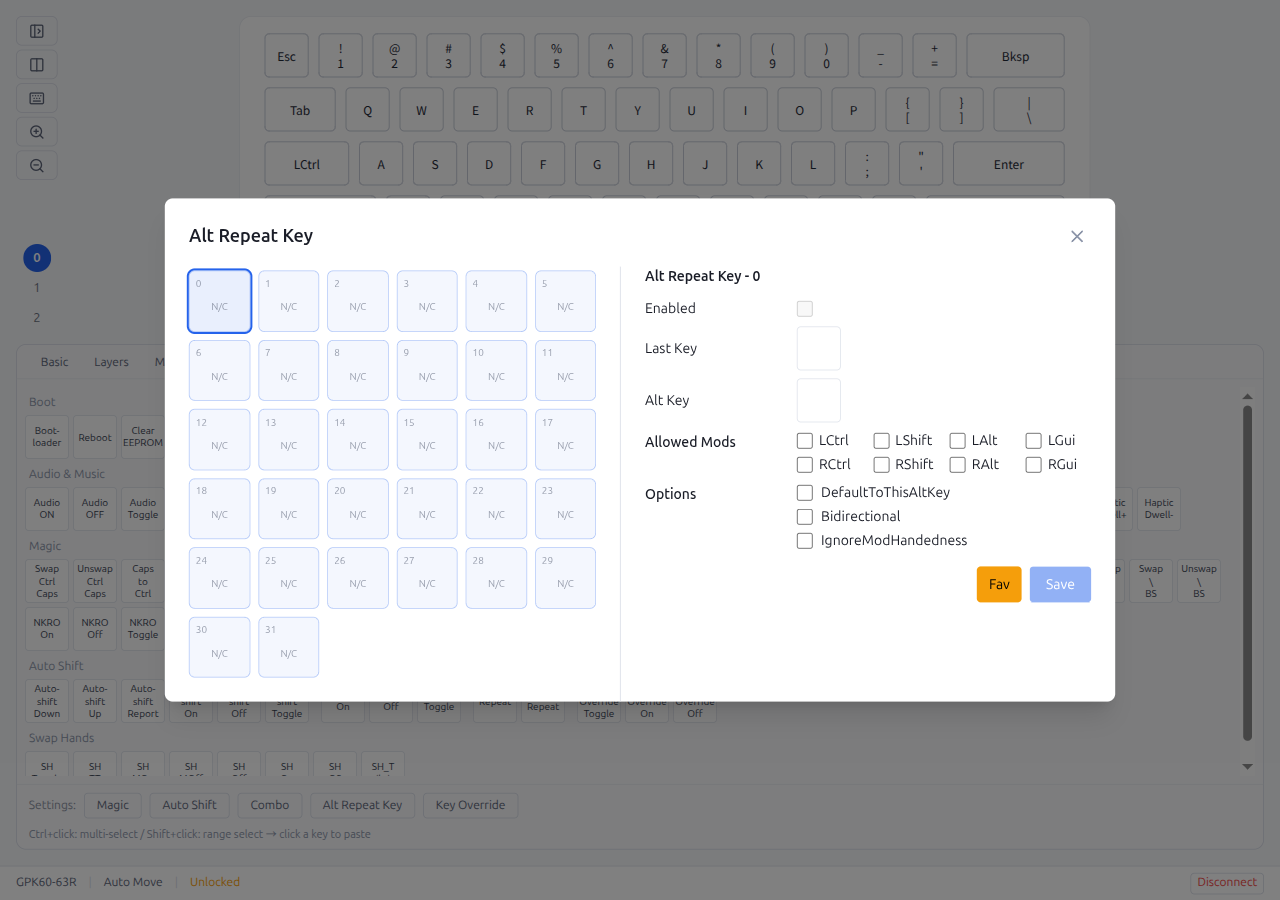
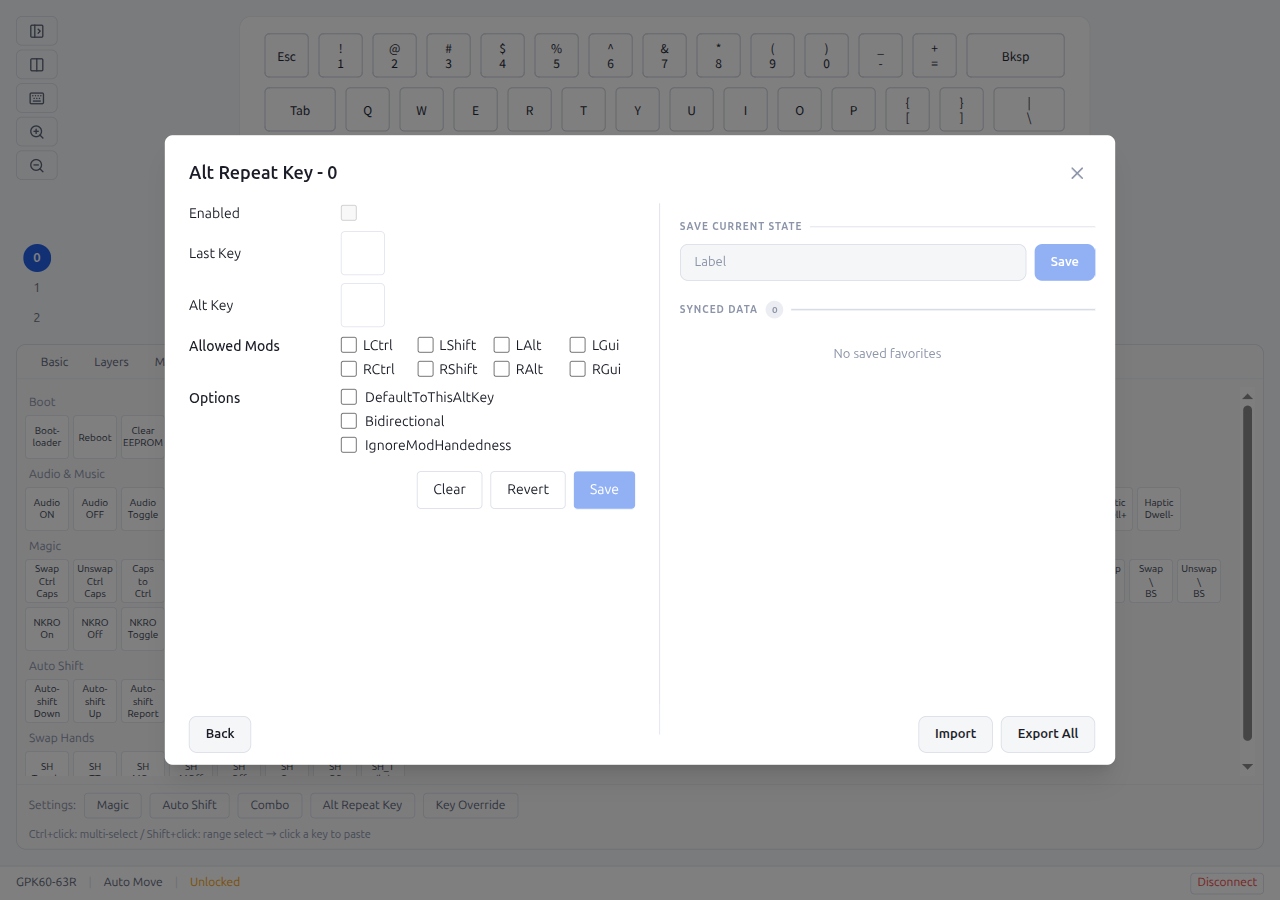
docs: update README, operation guides, and screenshots for v0.2.0 changes
Reflect UI changes since v0.2.0: 2-screen flow for Combo/Key Override/
Alt Repeat Key editors, inline favorites panel replacing Fav button/modal,
slide-out layout options, Mod Mask/Mod-Tap wrapper modes. Re-capture all
31 screenshots and update doc-capture e2e helper with unlock dialog
handling and inline favorites flow.

diff --git a/e2e/helpers/doc-capture.ts b/e2e/helpers/doc-capture.ts
@@ -56,6 +56,22 @@ async function dismissNotificationModal(page: Page): Promise<void> {
   }
 }
 
+async function waitForUnlockDialog(page: Page): Promise<void> {
+  // The unlock dialog has no close button — it requires physical key presses.
+  // Wait up to 60 seconds for the dialog to disappear (user unlocks).
+  const unlockHeading = page.locator('h2', { hasText: /Unlock|unlock|アンロック/ })
+  if (!(await isAvailable(unlockHeading))) return
+
+  console.log('  Unlock dialog detected — waiting for physical unlock (up to 60s)...')
+  try {
+    await unlockHeading.waitFor({ state: 'detached', timeout: 60_000 })
+    console.log('  Keyboard unlocked!')
+    await page.waitForTimeout(500)
+  } catch {
+    console.log('  [warn] Unlock timed out')
+  }
+}
+
 async function connectDevice(page: Page): Promise<boolean> {
   const deviceList = page.locator('[data-testid="device-list"]')
   const noDeviceMsg = page.locator('[data-testid="no-device-message"]')
@@ -233,10 +249,16 @@ async function captureSidebarTools(page: Page): Promise<void> {
   const typingTestBtn = page.locator('[data-testid="typing-test-button"]')
   if (await isAvailable(typingTestBtn)) {
     await typingTestBtn.click()
+    await waitForUnlockDialog(page)
     await page.waitForTimeout(1000)
     await capture(page, 'typing-test', { fullPage: true })
     await dismissNotificationModal(page)
-    await typingTestBtn.click()
+    await page.keyboard.press('Escape')
+    await page.waitForTimeout(500)
+    await dismissNotificationModal(page)
+    await typingTestBtn.click({ timeout: 5000 }).catch(() => {
+      console.log('  [warn] Could not toggle typing test off')
+    })
     await page.waitForTimeout(500)
   } else {
     console.log('  [skip] typing-test-button not found')
@@ -387,10 +409,10 @@ async function captureStatusBar(page: Page): Promise<void> {
   }
 }
 
-// --- Phase 9: Favorites ---
+// --- Phase 9: Inline Favorites ---
 
 async function captureFavorites(page: Page): Promise<void> {
-  console.log('\n--- Phase 9: Favorites ---')
+  console.log('\n--- Phase 9: Inline Favorites ---')
 
   const editorContent = page.locator('[data-testid="editor-content"]')
   const tdTabLabel = 'Tap-Hold / Tap Dance'
@@ -419,32 +441,9 @@ async function captureFavorites(page: Page): Promise<void> {
     return
   }
 
-  await capture(page, 'fav-button', { fullPage: true })
+  // TapDance modal now shows editor on the left and inline favorites panel on the right
+  await capture(page, 'inline-favorites', { fullPage: true })
 
-  const favBtn = page.locator('[data-testid="td-fav-btn"]')
-  if (!(await isAvailable(favBtn))) {
-    console.log('  [skip] Fav button not found')
-    await page.locator('[data-testid="td-modal-close"]').click()
-    await page.waitForTimeout(300)
-    return
-  }
-  await favBtn.click()
-  await page.waitForTimeout(500)
-
-  const favBackdrop = page.locator('[data-testid="favorite-store-modal-backdrop"]')
-  try {
-    await favBackdrop.waitFor({ state: 'visible', timeout: 3000 })
-  } catch {
-    console.log('  [skip] Favorite modal did not open')
-    await page.locator('[data-testid="td-modal-close"]').click()
-    await page.waitForTimeout(300)
-    return
-  }
-
-  await capture(page, 'fav-modal', { fullPage: true })
-
-  await page.locator('[data-testid="favorite-store-modal-close"]').click()
-  await page.waitForTimeout(300)
   await page.locator('[data-testid="td-modal-close"]').click()
   await page.waitForTimeout(300)
 }

diff --git a/docs/OPERATION-GUIDE.md b/docs/OPERATION-GUIDE.md
@@ -239,57 +239,82 @@ Open from the Lighting tab settings button. Configure RGB lighting colors and ef
 
 ### 5.2 Combo
 
-Open from the Quantum tab combo settings button. Configure simultaneous key press combinations to trigger different keys.
+Open from the Quantum tab combo settings button. Configure simultaneous key press combinations to trigger different keys. The combo editor uses a **2-screen flow**: a tile grid overview followed by a detail editor.
+
+**Screen 1 — Tile Grid Overview**
 
 ![Combo List](screenshots/21-combo-modal.png)
 
+Shows a grid of numbered tiles (0--31). Configured entries display a summary (e.g., "A + B -> C"). Click a tile to open the detail editor. Timeout (ms) and Save button are shown on this screen.
+
+**Screen 2 — Detail Editor**
+
 ![Combo Detail](screenshots/22-combo-detail.png)
 
-- Select combo entries from the grid tiles
-- Configure trigger key combinations and output keys
-- Adjust timeout values
+- Left panel: Combo editor with Key 1--4 and Output fields
+- Right panel: Inline favorites panel (Save Current State / Synced Data / Import / Export All)
+- **Clear** resets all fields; **Revert** restores the last saved state. Both use two-step confirmation.
+- **Save** writes changes to the keyboard
+- **Back** returns to the tile grid overview
 
 ### 5.3 Key Override
 
-Open from the Quantum tab key override settings button. Replace specific key inputs with different keys.
+Open from the Quantum tab key override settings button. Replace specific key inputs with different keys. The key override editor uses the same **2-screen flow** as Combo.
+
+**Screen 1 — Tile Grid Overview**
 
 ![Key Override List](screenshots/23-key-override-modal.png)
 
+Shows a grid of numbered tiles. Configured entries display a summary. Click a tile to open the detail editor.
+
+**Screen 2 — Detail Editor**
+
 ![Key Override Detail](screenshots/24-key-override-detail.png)
 
-- Configure trigger and replacement keys
-- Specify layer and modifier conditions
-- Enable/disable individual entries
+- Left panel: Trigger Key, Replacement Key, enabled toggle, layer and modifier options
+- Right panel: Inline favorites panel (Save Current State / Synced Data / Import / Export All)
+- **Clear** resets all fields; **Revert** restores the last saved state. Both use two-step confirmation.
+- **Save** writes changes to the keyboard
+- **Back** returns to the tile grid overview
 
 ### 5.4 Alt Repeat Key
 
-Open from the Quantum tab Alt Repeat Key settings button. Configure alternative actions for the Repeat Key.
+Open from the Quantum tab Alt Repeat Key settings button. Configure alternative actions for the Repeat Key. The Alt Repeat Key editor uses the same **2-screen flow** as Combo.
+
+**Screen 1 — Tile Grid Overview**
 
 ![Alt Repeat Key List](screenshots/25-alt-repeat-key-modal.png)
 
+Shows a grid of numbered tiles. Configured entries display a summary. Click a tile to open the detail editor.
+
+**Screen 2 — Detail Editor**
+
 ![Alt Repeat Key Detail](screenshots/26-alt-repeat-key-detail.png)
 
-- Set alternative keys based on the last key pressed
-- Specify allowed modifiers
-- Enable/disable individual entries
+- Left panel: Trigger Key, Replacement Key, enabled toggle, modifier options
+- Right panel: Inline favorites panel (Save Current State / Synced Data / Import / Export All)
+- **Clear** resets all fields; **Revert** restores the last saved state. Both use two-step confirmation.
+- **Save** writes changes to the keyboard
+- **Back** returns to the tile grid overview
 
 ### 5.5 Favorites
 
-Each editor modal (Tap Dance, Macro, Combo, Key Override, Alt Repeat Key) includes a **Fav** button for saving and loading individual entry configurations.
+Each editor modal (Tap Dance, Macro, Combo, Key Override, Alt Repeat Key) includes an inline **Favorites panel** on the right side of the editor.
 
-![Fav Button](screenshots/31-fav-button.png)
+![Inline Favorites Panel](screenshots/31-inline-favorites.png)
 
-- Click the **Fav** button (yellow) to open the Favorites modal
+The inline favorites panel provides:
+
 - **Save Current State**: Enter a label and click Save to store the current entry configuration
-- **Synced Data**: Previously saved entries are listed with Load, Rename, Delete, and **Export** actions
+- **Synced Data**: Previously saved entries are listed with Load, Rename, Delete, and Export actions
+- **Import** / **Export All**: Footer buttons for bulk import/export of favorites
 
-![Favorites Modal](screenshots/32-fav-modal.png)
+Within the Synced Data list:
 
 - **Load**: Apply a saved configuration to the current entry
 - **Rename**: Change the label of a saved entry
 - **Delete**: Remove a saved entry
 - **Export**: Download an individual saved entry as a file
-- **Import** / **Export All**: Use the footer buttons to import entries from a file or export all entries at once
 
 > **Note**: Favorites are not tied to a specific keyboard — saved entries can be loaded on any compatible keyboard. When Cloud Sync is enabled, favorites are also synced across devices (see §6.4). Favorites can also be managed from the Data modal on the device selection screen (see §1.3).
 

diff --git a/README.md b/README.md
@@ -59,13 +59,13 @@ For complete instructions with screenshots:
 
 ### Keyboard Configuration
 
-- **Keymap Editor** — Layer-based key assignment with drag & drop, auto-advance, and a searchable keycode palette
-- **Layout Editor** — Physical layout switching (split backspace, bottom row variants, etc.)
-- **Tap Dance** — Multi-tap key behaviors (tap, hold, double-tap, tap+hold, custom tapping term)
-- **Combo** — Simultaneous key-press to trigger output keys
-- **Key Override** — Replace key output when specific modifiers are held
-- **Alternate Repeat Key** — Context-aware alternate repeat key bindings
-- **Macro Editor** — Create and record macros with text, tap, hold, release, and delay actions (v1/v2 protocol)
+- **Keymap Editor** — Layer-based key assignment with drag & drop, auto-advance, and a searchable keycode palette with Mod Mask/Mod-Tap wrapper modes
+- **Layout Editor** — Physical layout switching via slide-out panel (split backspace, bottom row variants, etc.)
+- **Tap Dance** — Multi-tap key behaviors (tap, hold, double-tap, tap+hold, custom tapping term) with inline favorites
+- **Combo** — Simultaneous key-press to trigger output keys; 2-screen flow (tile grid → detail editor with inline favorites)
+- **Key Override** — Replace key output when specific modifiers are held; 2-screen flow with inline favorites
+- **Alternate Repeat Key** — Context-aware alternate repeat key bindings; 2-screen flow with inline favorites
+- **Macro Editor** — Create and record macros with text, tap, hold, release, and delay actions (v1/v2 protocol) with inline favorites
 - **RGB Lighting** — QMK Backlight, RGBLight, and VialRGB configuration
 - **QMK Settings** — Dynamic firmware settings with boolean/integer fields
 - **Matrix Tester** — Real-time key switch verification (20 ms polling)
@@ -73,7 +73,7 @@ For complete instructions with screenshots:
 ### Data Management
 
 - **Snapshots** — Save and restore complete keyboard states (keymap, macros, dynamic entries, QMK settings)
-- **Favorites** — Save reusable tap dance, macro, combo, key override, and alternate repeat key configurations; not tied to a specific keyboard, so saved entries can be loaded on any compatible keyboard. Per-entry export, bulk import/export supported
+- **Favorites** — Inline favorites panel in every editor for saving/loading reusable configurations; not tied to a specific keyboard, so saved entries can be loaded on any compatible keyboard. Per-entry export, bulk import/export supported
 - **Data Modal** — Centralized favorite and Hub post management from the device selection screen
 - **Export** — Download keymap as `.vil`, `.pipette`, `keymap.c`, or PDF cheat sheet
 - **Import** — Load `.vil` files to restore keyboard state
